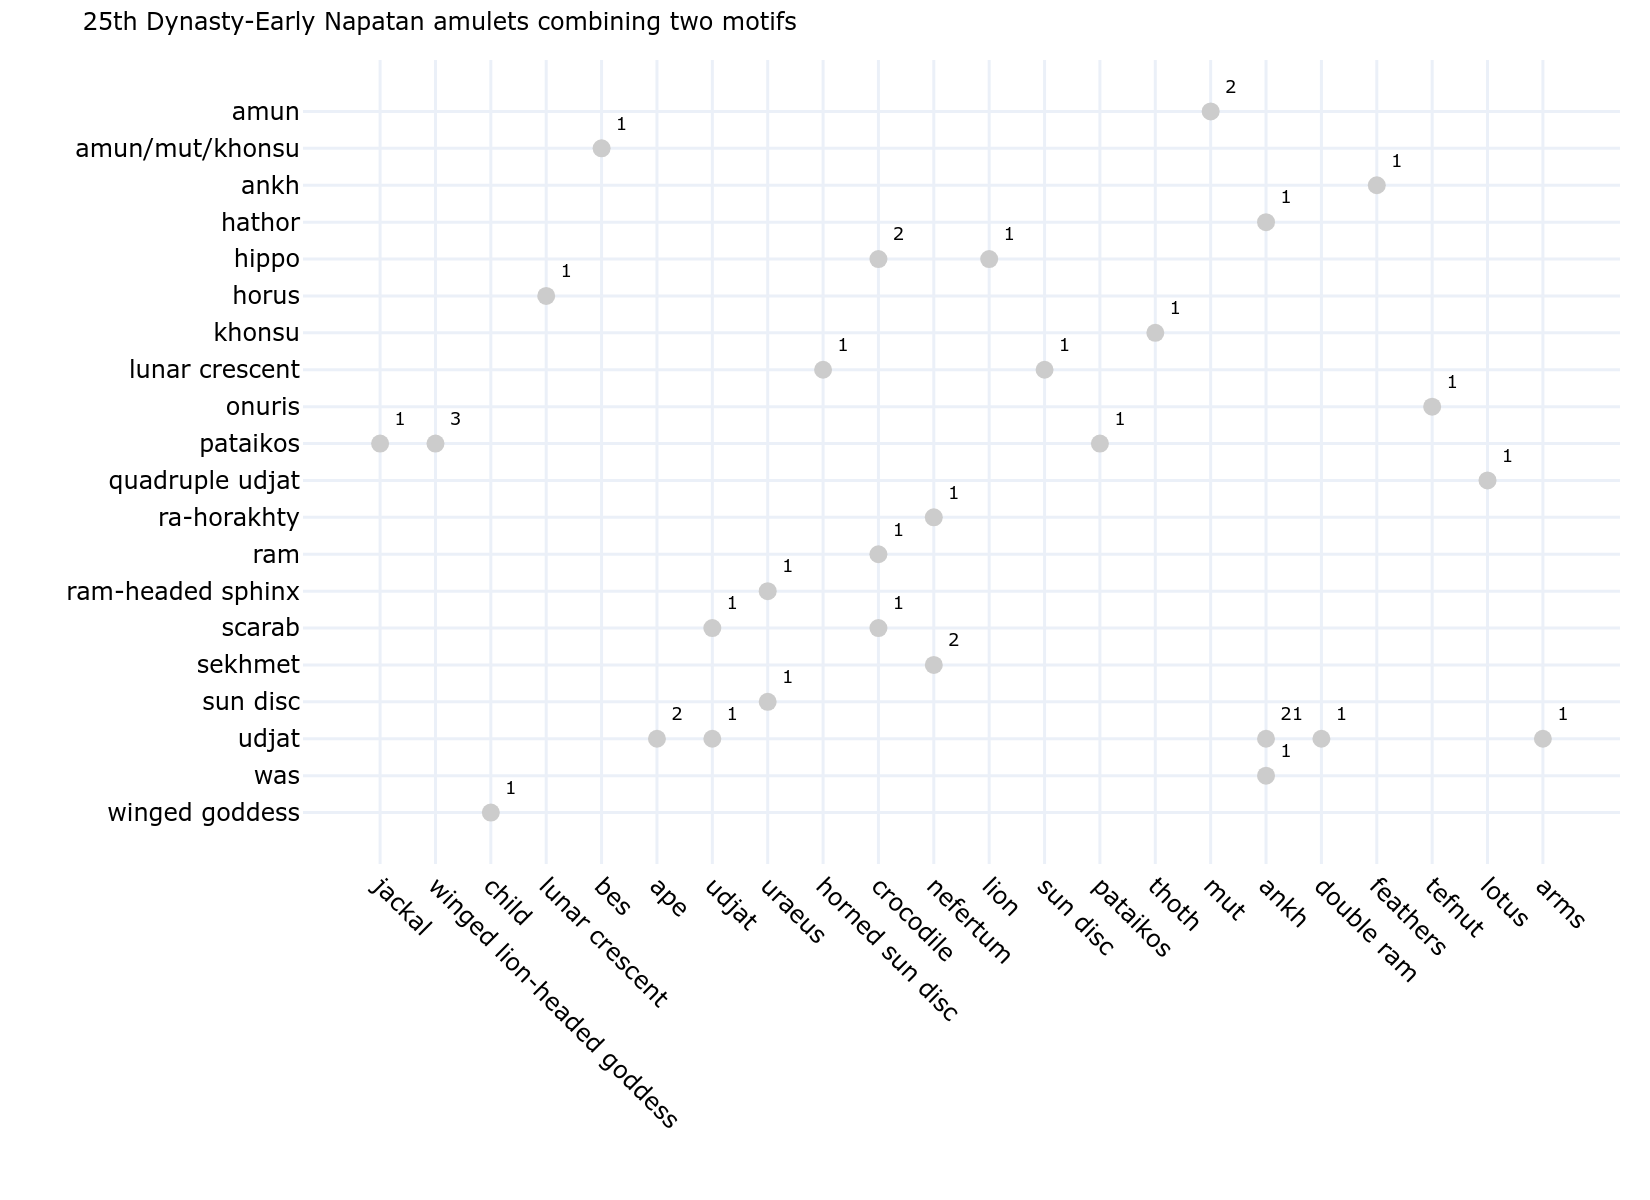
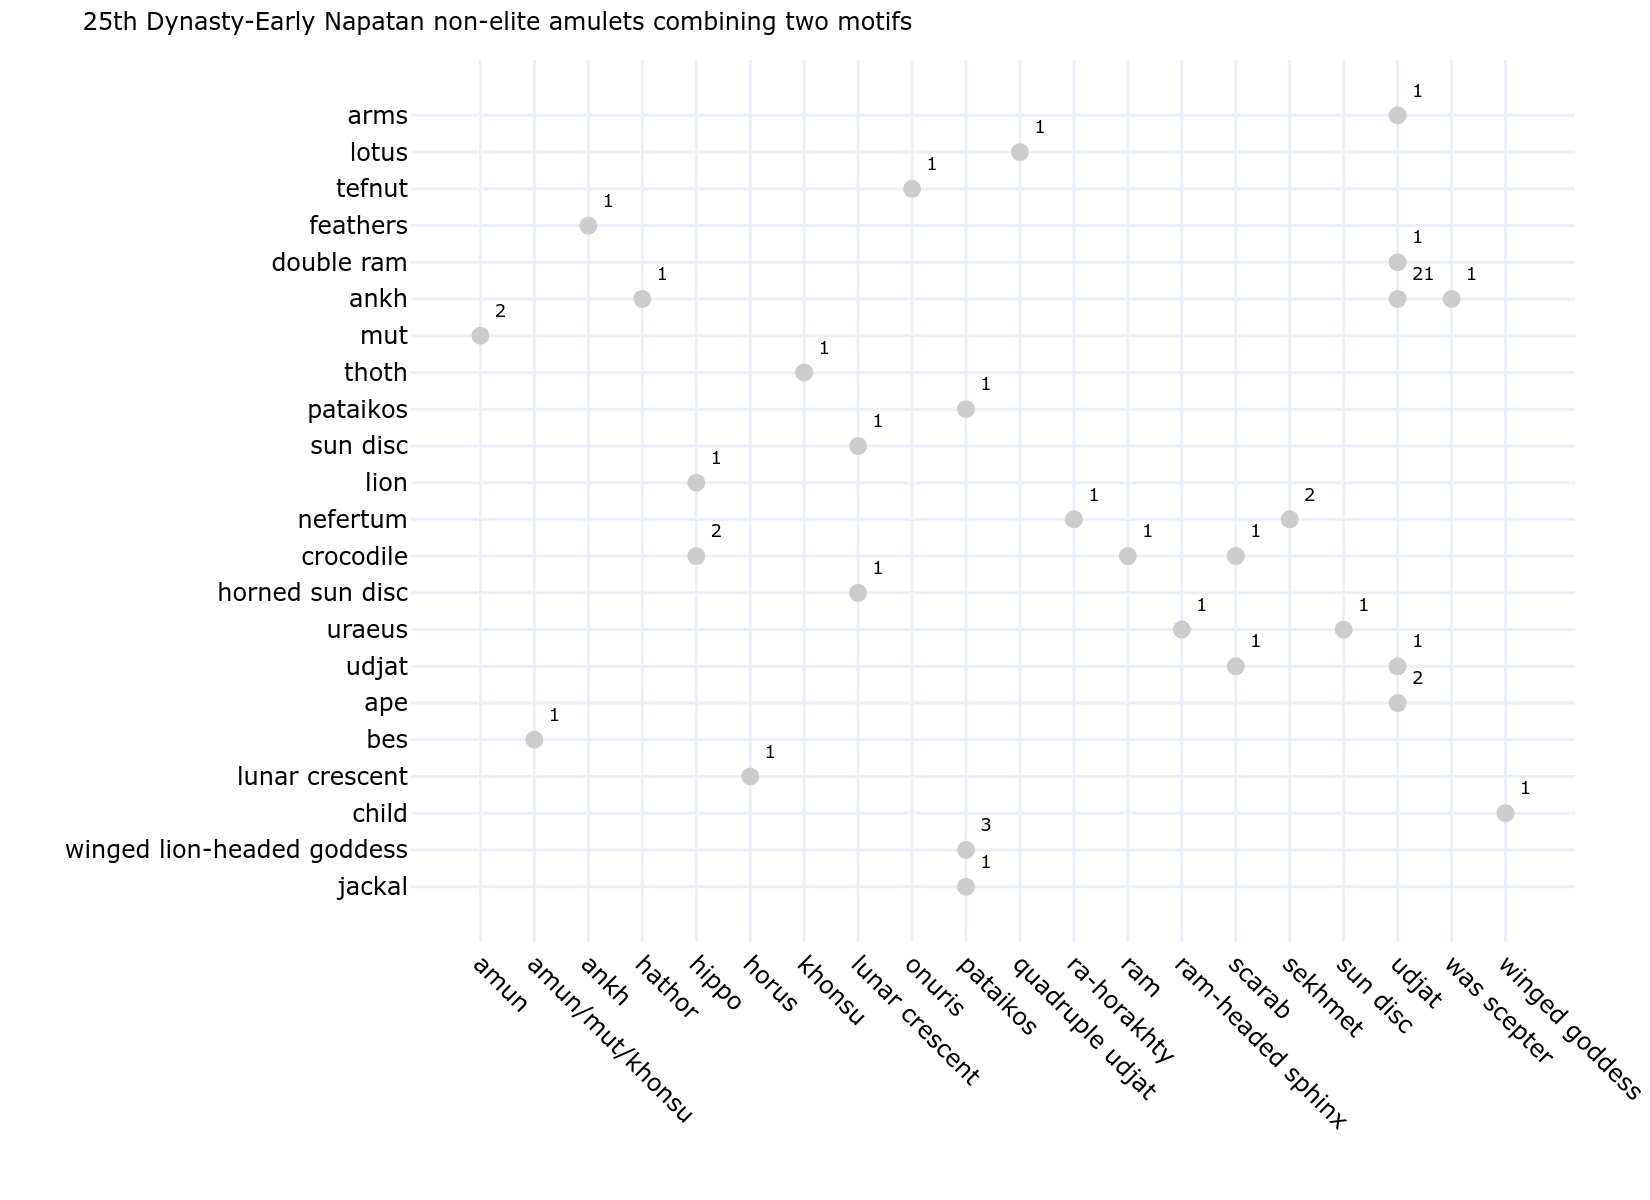
added two motifs to royal

diff --git a/chapter4/25th_dynasty/25_amulets_2forms.py b/chapter4/25th_dynasty/25_amulets_2forms.py
@@ -2,8 +2,6 @@ import pandas as pd
 import plotly.express as px
 from sqlalchemy import create_engine
 import plotly.io as pio
-import plotly.graph_objects as go
-import numpy as np
 import os
 from dotenv import load_dotenv
 
@@ -30,12 +28,13 @@ WHERE temp = '25th'
     AND dating = 'napatan' 
     AND form2 IS NOT NULL
     AND form3 IS NULL
-    AND b.site_id IN (4,5,6,7,8,9,10) 
-    AND social_group = 'non-elite'
+    AND b.site_id IN (1,2)
 GROUP BY 1,2,3
 """
 
 df = pd.read_sql(query, engine)
+
+custom_colors = ['#92cad1','#e9724d', '#d6d727', '#79ccb3', '#868686']
 
 fig = px.scatter(
     df,
@@ -43,7 +42,7 @@ fig = px.scatter(
     y="form2",
     text='total',                 
     color_discrete_sequence=['#cccccc'],
-    title="25th Dynasty non-elite amulets combining two motifs",
+    title="25th Dynasty royal amulets combining two motifs",
     labels={"total": "Total"},
     size_max=20,
     template='plotly_white',
@@ -84,7 +83,7 @@ fig.update_coloraxes(
 )
 
 fig.update_traces(textposition='middle right', textfont_size=8)
-fig.update_xaxes(title_text='')
+fig.update_xaxes(title_text='', tickangle=45)
 fig.update_yaxes(title_text='')
 
-pio.write_image(fig, 'images/chapter5/25_with_2forms.png',scale=4, width=450, height=180)
+pio.write_image(fig, 'images/chapter4/25_amulets_2forms.png',scale=3, width=550, height=250)

diff --git a/chapter5/non-elite/25th_dynasty-early_napatan/25-EN_with_2forms.py b/chapter5/non-elite/25th_dynasty-early_napatan/25-EN_with_2forms.py
@@ -31,11 +31,11 @@ df = pd.read_sql(query, engine)
 
 fig = px.scatter(
     df,
-    x="form2",
-    y="form",
+    x="form",
+    y="form2",
     text='total',                 
     color_discrete_sequence=['#cccccc'],
-    title="25th Dynasty-Early Napatan amulets combining two motifs",
+    title="25th Dynasty-Early Napatan non-elite amulets combining two motifs",
     labels={"total": "Total"},
     size_max=20,
     template='plotly_white',
